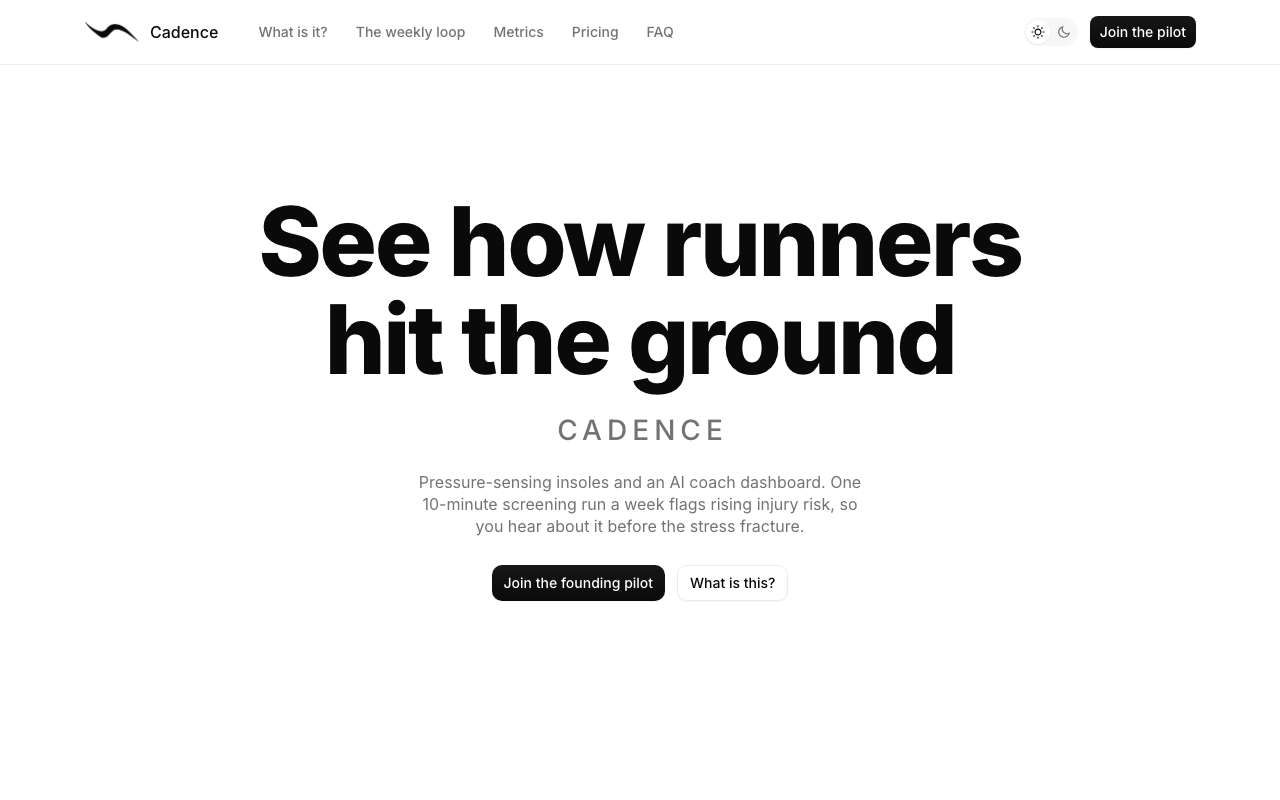
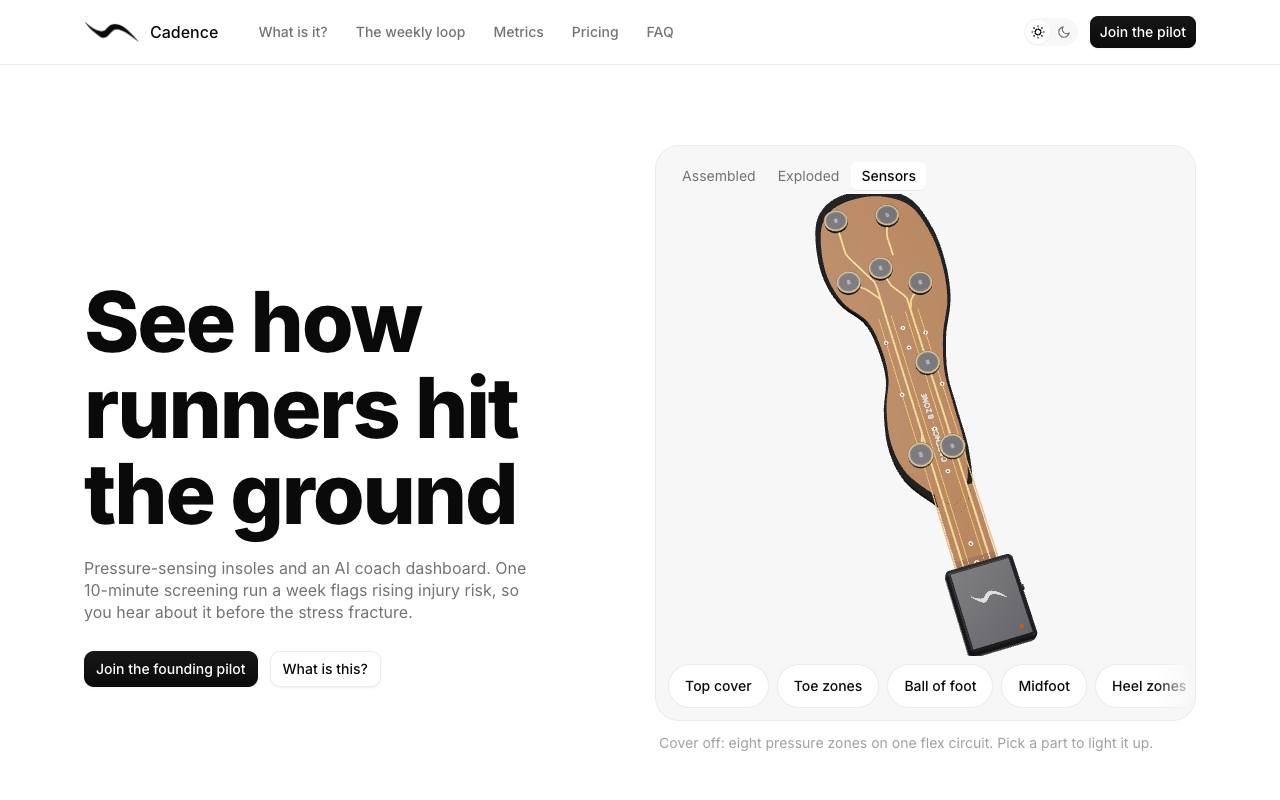
Drop JetBrains Mono and use Inter for all text
- Remove JetBrains Mono from the Google Fonts link in every HTML shell
- Remove the --font-mono token and all font-mono and .mono usages in site CSS and components
- Refresh the Cadence preview image

diff --git a/src/styles/site.css b/src/styles/site.css
@@ -1,10 +1,9 @@
 @import "./globals.css";
 
-/* Site tokens. BoardUI reads --font-inter / --font-mono-source (set by next/font
+/* Site tokens. BoardUI reads --font-inter (set by next/font
  * in a Next app); here the fonts come from the Google Fonts <link> in each page. */
 :root {
   --font-inter: "Inter";
-  --font-mono-source: "JetBrains Mono";
 
   /* Retint BoardUI's accent ramp to the site's green. */
   --color-accent-50: #eef8f2;
@@ -47,7 +46,6 @@ body {
     to { opacity: 1; transform: translateY(0); }
   }
 
-  .mono { font-family: var(--font-mono); }
 
   /* Hero */
   .hero { margin-bottom: 80px; }
@@ -96,10 +94,10 @@ body {
   .work-name { font-size: 0.93rem; font-weight: 500; min-width: 98px; flex-shrink: 0; transition: color 0.15s; }
   .work-item:hover .work-name, .writing-item:hover .row-title, .blog-post-row:hover .row-title { color: var(--color-accent-600); }
   .work-desc { font-size: 0.85rem; color: var(--color-text-secondary); flex: 1; line-height: 1.4; }
-  .row-arrow { font-family: var(--font-mono); font-size: 0.8rem; color: var(--color-text-tertiary); flex-shrink: 0; opacity: 0; transition: opacity 0.15s, transform 0.15s; }
+  .row-arrow { font-size: 0.8rem; color: var(--color-text-tertiary); flex-shrink: 0; opacity: 0; transition: opacity 0.15s, transform 0.15s; }
   .work-item:hover .row-arrow { opacity: 1; transform: translate(2px, -2px); }
   .writing-item:hover .row-arrow, .blog-post-row:hover .row-arrow { opacity: 1; transform: translateX(3px); }
-  .row-date { font-family: var(--font-mono); font-size: 0.72rem; color: var(--color-text-tertiary); flex-shrink: 0; min-width: 62px; }
+  .row-date { font-size: 0.72rem; color: var(--color-text-tertiary); flex-shrink: 0; min-width: 62px; }
   .row-title { font-size: 0.92rem; flex: 1; transition: color 0.15s; line-height: 1.4; }
 
   /* GitHub activity */
@@ -115,7 +113,7 @@ body {
   .project-card:first-child { border-top: 1px solid var(--color-separator-border); }
   .project-card-top { display: flex; justify-content: space-between; align-items: flex-start; gap: 16px; margin-bottom: 10px; }
   .project-card-title { font-size: 1rem; font-weight: 600; margin-bottom: 3px; letter-spacing: -0.01em; }
-  .project-card-tag { font-family: var(--font-mono); font-size: 0.68rem; color: var(--color-text-tertiary); text-transform: uppercase; letter-spacing: 0.06em; }
+  .project-card-tag { font-size: 0.68rem; color: var(--color-text-tertiary); text-transform: uppercase; letter-spacing: 0.06em; }
   .project-card-desc { font-size: 0.9rem; color: var(--color-text-secondary); line-height: 1.7; margin-bottom: 14px; }
   .project-card-impact {
     font-size: 0.82rem; color: var(--color-text-secondary); margin-bottom: 14px; padding: 9px 13px;
@@ -126,7 +124,7 @@ body {
   /* About */
   .content:has(.about-body) { max-width: 940px; }
   .about-body { display: grid; grid-template-columns: 1fr 280px; gap: 48px; align-items: start; }
-  .years-counter { display: inline-block; min-width: 8.5ch; font-variant-numeric: tabular-nums; font-family: var(--font-mono); font-size: 0.9em; font-weight: 700; }
+  .years-counter { display: inline-block; min-width: 8.5ch; font-variant-numeric: tabular-nums; font-size: 0.9em; font-weight: 700; }
   .about-lead { font-size: 0.97rem; line-height: 1.8; margin-bottom: 16px; }
   .about-text p:not(.about-lead) { font-size: 0.92rem; color: var(--color-text-secondary); line-height: 1.8; margin-bottom: 14px; }
   .burrito { margin: 22px 0 0; border-top: 1px solid var(--color-separator-border); }
@@ -148,13 +146,13 @@ body {
   .contact-row-info { flex: 1; }
   .contact-row-label { font-size: 0.9rem; font-weight: 500; margin-bottom: 1px; transition: color 0.15s; }
   .contact-row:hover .contact-row-label { color: var(--color-accent-600); }
-  .contact-row-handle { font-family: var(--font-mono); font-size: 0.72rem; color: var(--color-text-tertiary); }
+  .contact-row-handle { font-size: 0.72rem; color: var(--color-text-tertiary); }
   .contact-row:hover .row-arrow { opacity: 1; transform: translate(2px, -2px); }
 
   /* Blog entry */
   .blog-back { margin-bottom: 36px; }
   .blog-entry-header { margin-bottom: 36px; }
-  .blog-entry-date { font-family: var(--font-mono); font-size: 0.72rem; color: var(--color-text-tertiary); text-transform: uppercase; letter-spacing: 0.08em; margin-bottom: 10px; }
+  .blog-entry-date { font-size: 0.72rem; color: var(--color-text-tertiary); text-transform: uppercase; letter-spacing: 0.08em; margin-bottom: 10px; }
   .blog-entry-title { font-size: 1.7rem; font-weight: 600; margin-bottom: 10px; letter-spacing: -0.03em; line-height: 1.2; }
   .blog-entry-sub { font-size: 0.95rem; color: var(--color-text-secondary); line-height: 1.65; }
   .blog-entry-body { font-size: 0.95rem; line-height: 1.85; color: var(--color-text-secondary); border-top: 1px solid var(--color-separator-border); padding-top: 28px; }
@@ -185,7 +183,7 @@ body {
   .article-wrap ul li { margin-bottom: 8px; }
   .headline-example {
     background: var(--color-background-secondary-default); border: 1px solid var(--color-separator-border); border-radius: 8px;
-    padding: 16px 20px; font-family: var(--font-mono); font-size: 0.9rem; margin: 16px 0;
+    padding: 16px 20px; font-size: 0.9rem; margin: 16px 0;
   }
   .outro { margin-top: 48px; padding-top: 32px; border-top: 1px solid var(--color-separator-border); }
 

diff --git a/src/components/site/layout.tsx b/src/components/site/layout.tsx
@@ -40,7 +40,7 @@ export function Layout({ children, footer }: { children: ReactNode; footer?: Rea
                 rel={l.external ? "noopener noreferrer" : undefined}
                 aria-current={l.match.includes(page) ? "page" : undefined}
                 className={cx(
-                  "rounded-md px-2.5 py-1.5 font-mono text-caption-1-medium text-text-tertiary transition-colors duration-150",
+                  "rounded-md px-2.5 py-1.5 text-caption-1-medium text-text-tertiary transition-colors duration-150",
                   "outline-none hover:bg-background-secondary-default hover:text-text-primary focus-visible:ring-2 focus-visible:ring-border-focus-ring",
                   l.match.includes(page) && "bg-background-secondary-default text-text-primary",
                 )}
@@ -73,7 +73,7 @@ export function Layout({ children, footer }: { children: ReactNode; footer?: Rea
             href={l.href}
             target={l.external ? "_blank" : undefined}
             onClick={() => setOpen(false)}
-            className="px-6 py-2.5 font-mono text-title-3-semibold text-text-secondary transition-colors hover:text-text-primary"
+            className="px-6 py-2.5 text-title-3-semibold text-text-secondary transition-colors hover:text-text-primary"
           >
             {l.label}
           </a>

diff --git a/src/components/site/github-graph.tsx b/src/components/site/github-graph.tsx
@@ -68,7 +68,7 @@ export function GithubGraph() {
   }, []);
 
   if (failed) return <p className="text-caption-1-medium text-text-tertiary">could not load activity</p>;
-  if (!weeks) return <p className="font-mono text-caption-1-medium text-text-tertiary">loading...</p>;
+  if (!weeks) return <p className="text-caption-1-medium text-text-tertiary">loading...</p>;
 
   const total = weeks.flat().reduce((sum, d) => sum + (d.future ? 0 : d.count), 0);
 
@@ -80,7 +80,7 @@ export function GithubGraph() {
             {monthLabels(weeks).map((m) => (
               <span
                 key={m.col}
-                className="absolute font-mono text-[10px] text-text-tertiary"
+                className="absolute text-[10px] text-text-tertiary"
                 style={{ left: m.col * STEP }}
               >
                 {m.label}
@@ -113,7 +113,7 @@ export function GithubGraph() {
           </div>
         </div>
       </div>
-      <p className="mt-2.5 font-mono text-[11px] text-text-tertiary">
+      <p className="mt-2.5 text-[11px] text-text-tertiary">
         {total.toLocaleString()} contributions in the last 9 months
       </p>
     </div>

diff --git a/src/styles/theme.css b/src/styles/theme.css
@@ -53,11 +53,6 @@
                "Apple Color Emoji", "Segoe UI Emoji", "Segoe UI Symbol",
                "Noto Color Emoji";
 
-  /* Monospace ramp for code blocks. Loaded via next/font in app/layout.tsx
-   * (--font-mono-source → JetBrains Mono). Figma's spec uses IBM Plex Mono;
-   * JetBrains Mono is the closest already-bundled face. */
-  --font-mono: var(--font-mono-source), ui-monospace, "SFMono-Regular", Menlo,
-               Consolas, "Liberation Mono", monospace;
 
   /* ----- Radii ---------------------------------------------------------------
    * Extra step between lg (8) and xl (12). Used by medium-size buttons.

diff --git a/about.html b/about.html
@@ -18,7 +18,7 @@
     <link rel="preconnect" href="https://fonts.googleapis.com" />
     <link rel="preconnect" href="https://fonts.gstatic.com" crossorigin />
     <link
-      href="https://fonts.googleapis.com/css2?family=Inter:wght@300;400;500;600&family=JetBrains+Mono:wght@300;400;500&display=swap"
+      href="https://fonts.googleapis.com/css2?family=Inter:wght@300;400;500;600&display=swap"
       rel="stylesheet"
     />
   </head>

diff --git a/blog.html b/blog.html
@@ -17,7 +17,7 @@
     <link rel="preconnect" href="https://fonts.googleapis.com" />
     <link rel="preconnect" href="https://fonts.gstatic.com" crossorigin />
     <link
-      href="https://fonts.googleapis.com/css2?family=Inter:wght@300;400;500;600&family=JetBrains+Mono:wght@300;400;500&display=swap"
+      href="https://fonts.googleapis.com/css2?family=Inter:wght@300;400;500;600&display=swap"
       rel="stylesheet"
     />
   </head>

diff --git a/blog/if-you-build-it-they-will-not-come.html b/blog/if-you-build-it-they-will-not-come.html
@@ -17,7 +17,7 @@
     <link rel="preconnect" href="https://fonts.googleapis.com" />
     <link rel="preconnect" href="https://fonts.gstatic.com" crossorigin />
     <link
-      href="https://fonts.googleapis.com/css2?family=Inter:wght@300;400;500;600&family=JetBrains+Mono:wght@300;400;500&display=swap"
+      href="https://fonts.googleapis.com/css2?family=Inter:wght@300;400;500;600&display=swap"
       rel="stylesheet"
     />
   </head>

diff --git a/blog/you-can-just-email-people.html b/blog/you-can-just-email-people.html
@@ -17,7 +17,7 @@
     <link rel="preconnect" href="https://fonts.googleapis.com" />
     <link rel="preconnect" href="https://fonts.gstatic.com" crossorigin />
     <link
-      href="https://fonts.googleapis.com/css2?family=Inter:wght@300;400;500;600&family=JetBrains+Mono:wght@300;400;500&display=swap"
+      href="https://fonts.googleapis.com/css2?family=Inter:wght@300;400;500;600&display=swap"
       rel="stylesheet"
     />
   </head>

diff --git a/contact.html b/contact.html
@@ -17,7 +17,7 @@
     <link rel="preconnect" href="https://fonts.googleapis.com" />
     <link rel="preconnect" href="https://fonts.gstatic.com" crossorigin />
     <link
-      href="https://fonts.googleapis.com/css2?family=Inter:wght@300;400;500;600&family=JetBrains+Mono:wght@300;400;500&display=swap"
+      href="https://fonts.googleapis.com/css2?family=Inter:wght@300;400;500;600&display=swap"
       rel="stylesheet"
     />
   </head>

diff --git a/index.html b/index.html
@@ -17,7 +17,7 @@
     <link rel="preconnect" href="https://fonts.googleapis.com" />
     <link rel="preconnect" href="https://fonts.gstatic.com" crossorigin />
     <link
-      href="https://fonts.googleapis.com/css2?family=Inter:wght@300;400;500;600&family=JetBrains+Mono:wght@300;400;500&display=swap"
+      href="https://fonts.googleapis.com/css2?family=Inter:wght@300;400;500;600&display=swap"
       rel="stylesheet"
     />
   </head>
